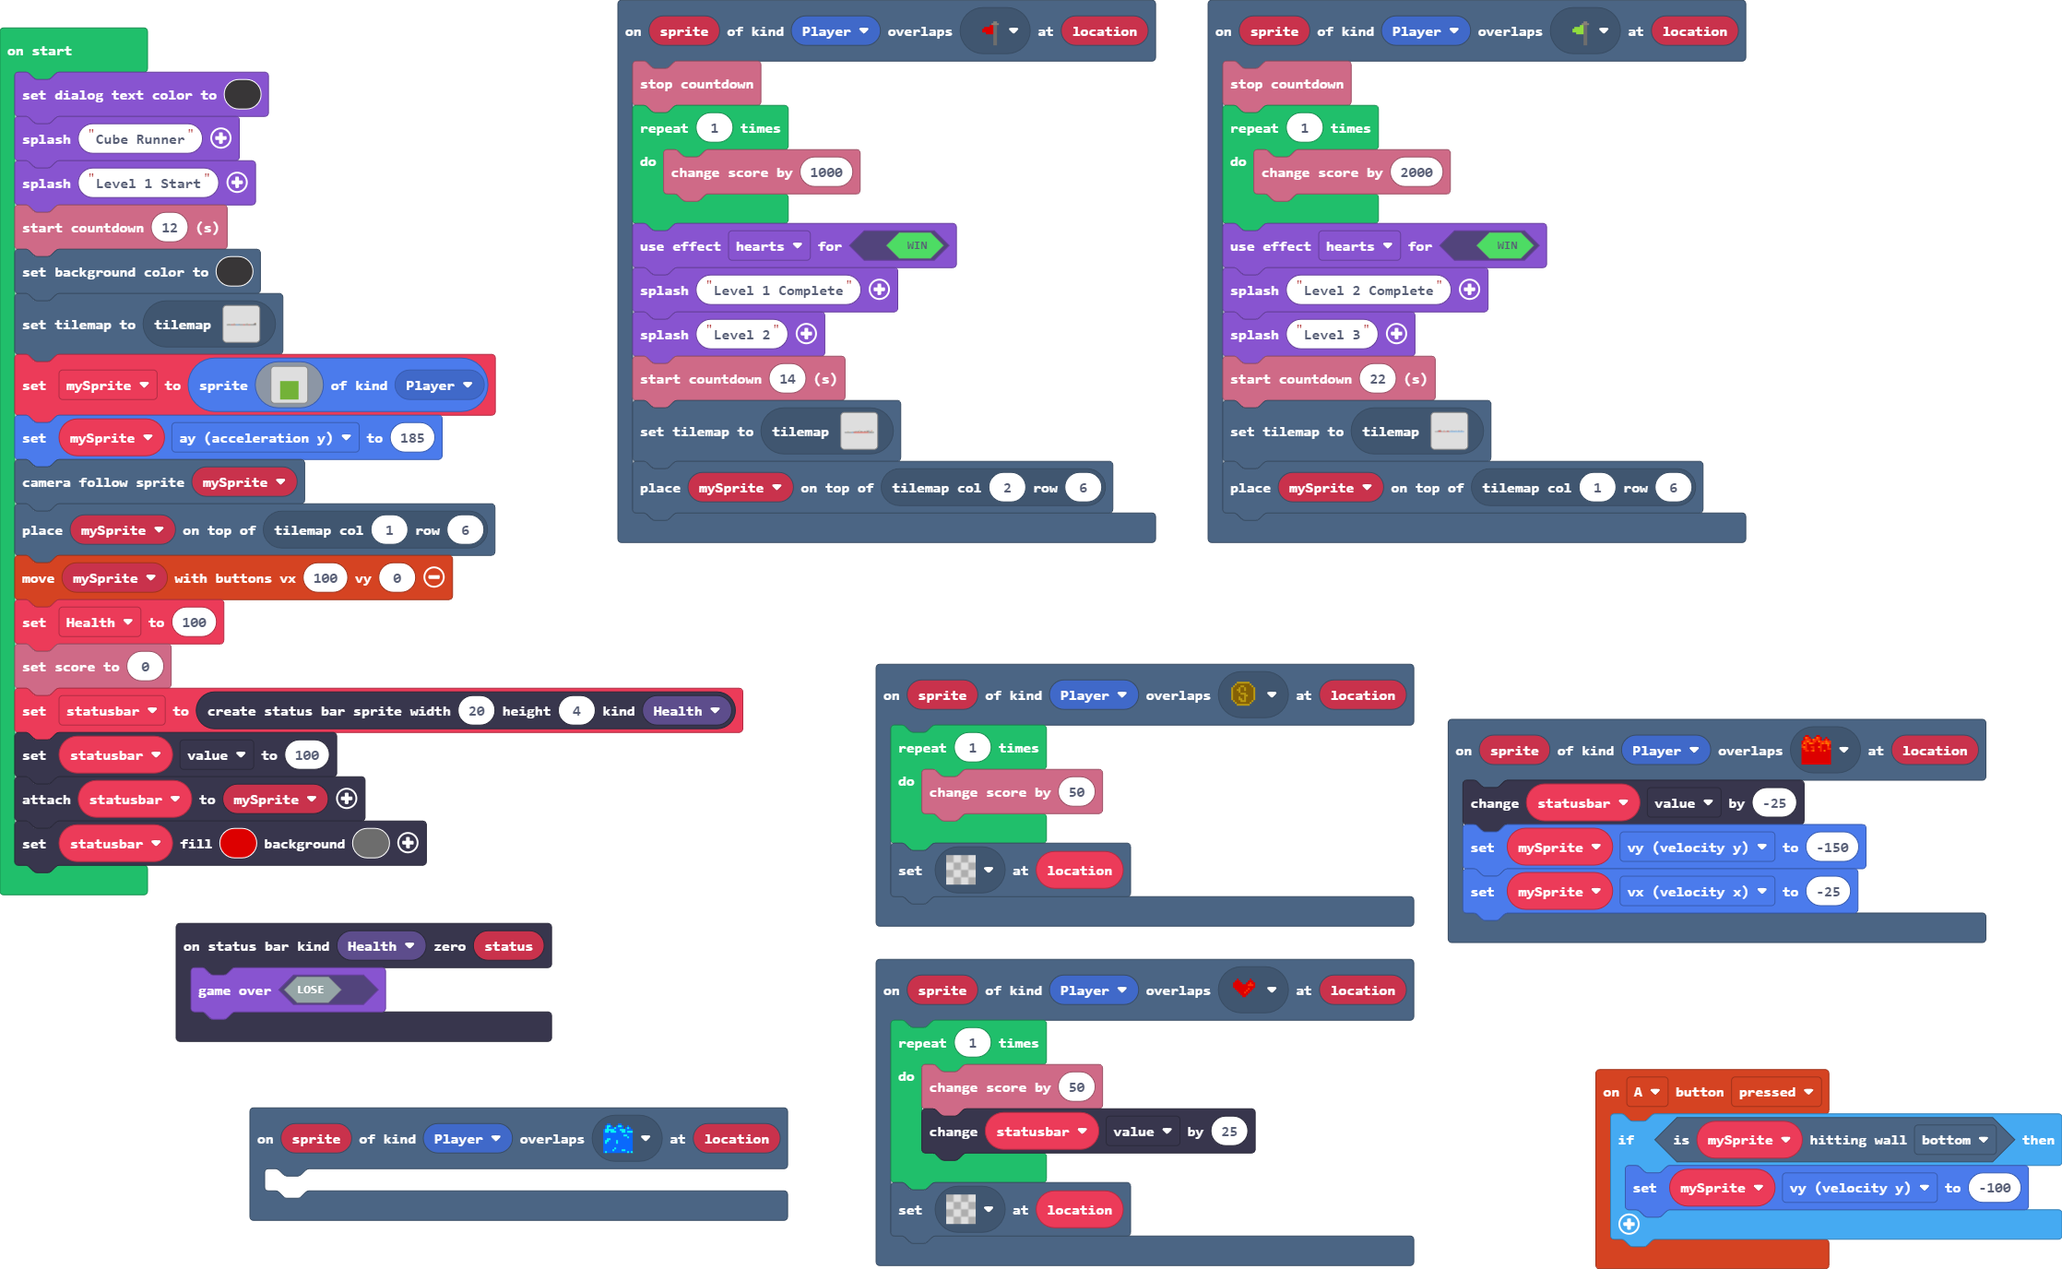
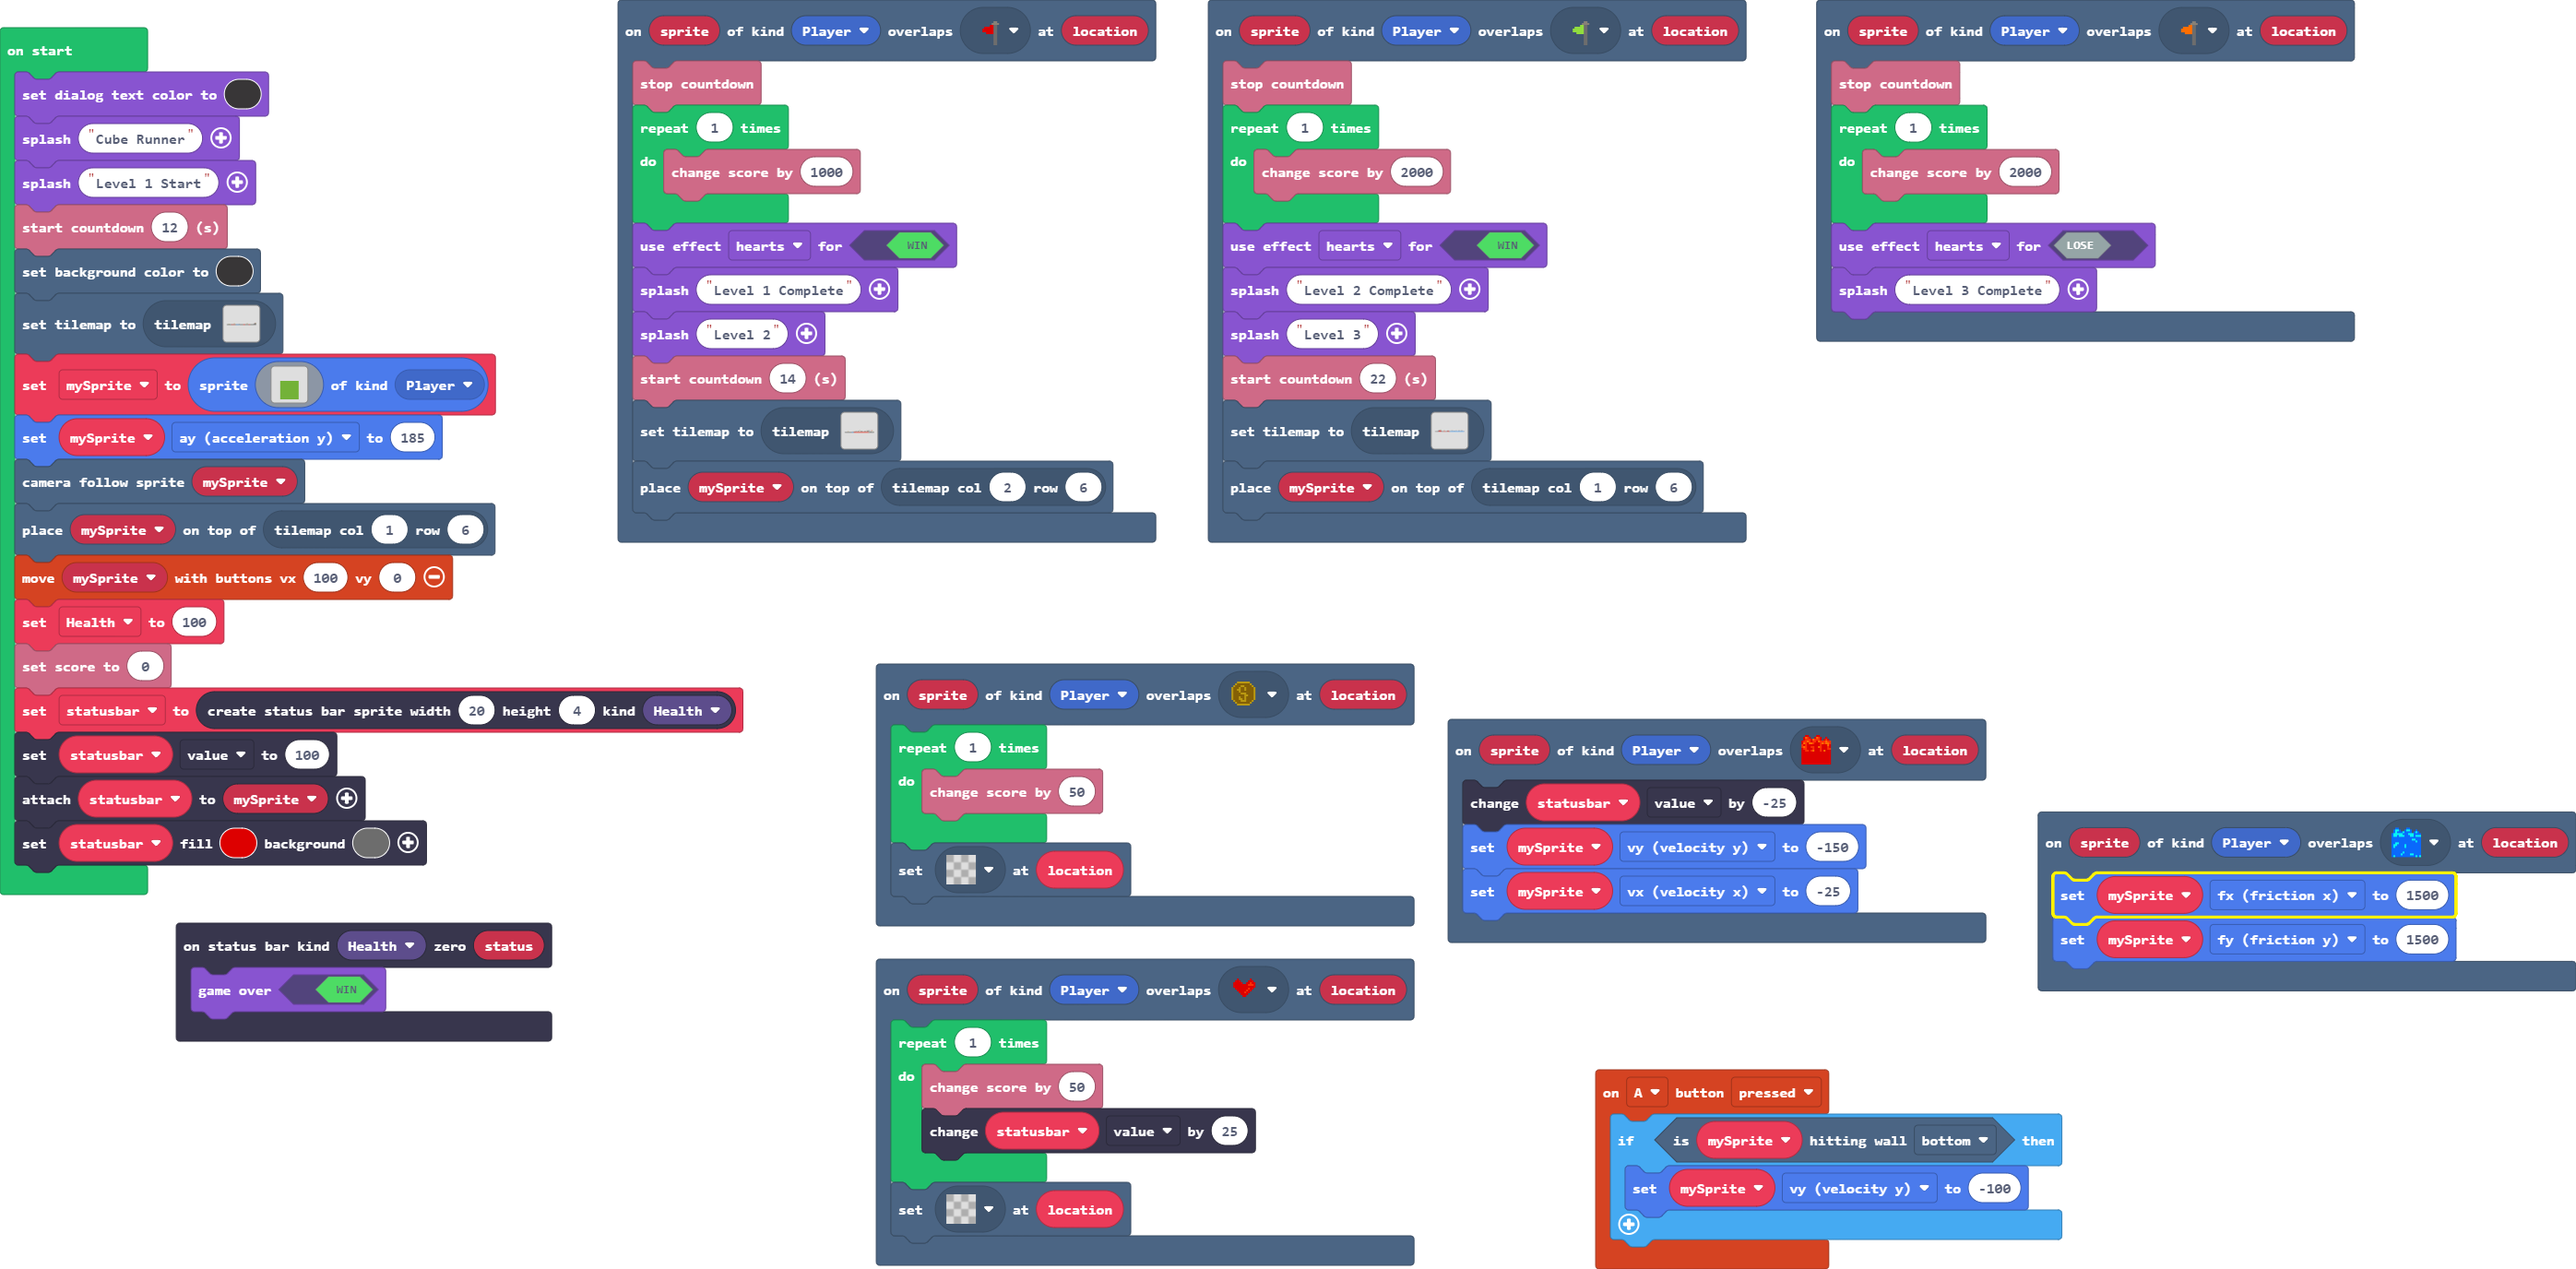
Update main.blocks, main.ts

diff --git a/main.ts b/main.ts
@@ -2,7 +2,8 @@ namespace SpriteKind {
     export const Coin = SpriteKind.create()
 }
 scene.onOverlapTile(SpriteKind.Player, assets.tile`myTile1`, function (sprite, location) {
-	
+    mySprite.fx = 1500
+    mySprite.fy = 1500
 })
 scene.onOverlapTile(SpriteKind.Player, assets.tile`Level2 Flag`, function (sprite, location) {
     info.stopCountdown()
@@ -51,8 +52,16 @@ scene.onOverlapTile(SpriteKind.Player, assets.tile`Level1 Flag`, function (sprit
     tiles.setCurrentTilemap(tilemap`level0`)
     tiles.placeOnTile(mySprite, tiles.getTileLocation(2, 6))
 })
+scene.onOverlapTile(SpriteKind.Player, assets.tile`Level3 Flag`, function (sprite, location) {
+    info.stopCountdown()
+    for (let index = 0; index < 1; index++) {
+        info.changeScoreBy(2000)
+    }
+    game.setGameOverEffect(false, effects.hearts)
+    game.splash("Level 3 Complete")
+})
 statusbars.onZero(StatusBarKind.Health, function (status) {
-    game.gameOver(false)
+    game.gameOver(true)
 })
 let statusbar: StatusBarSprite = null
 let mySprite: Sprite = null
